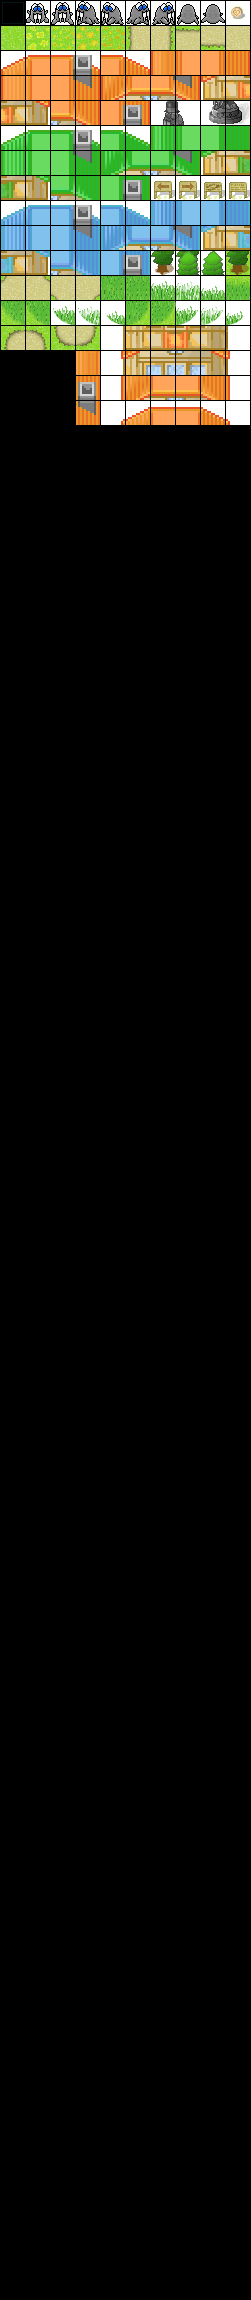
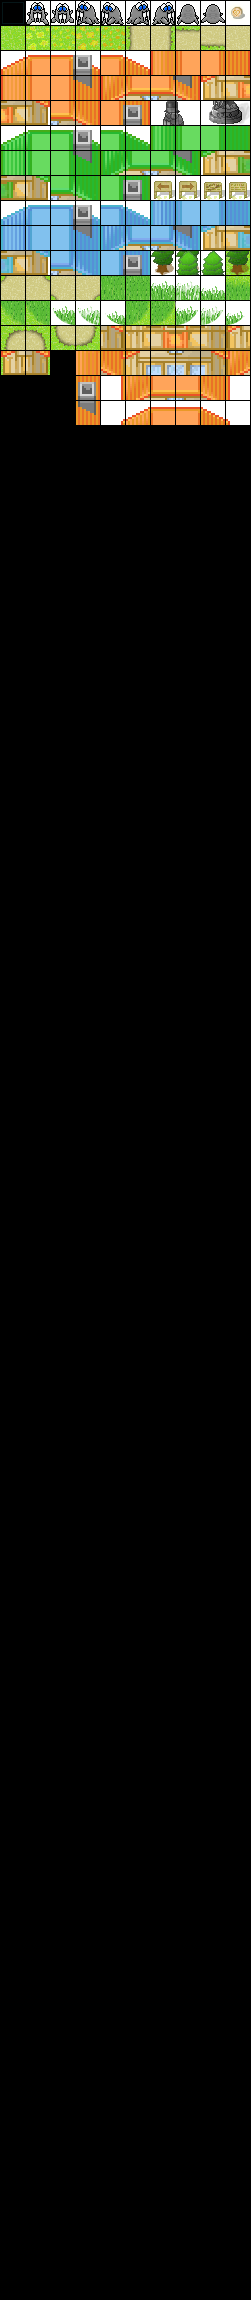
rendering + animations
> Rendering optimized (only render changes)
> Implemented different Walru tiles (directions)
> Added walking animation at 10FPS
> Minor bugfixes

diff --git a/Map.java b/Map.java
@@ -11,14 +11,14 @@ public class Map {
 		Map = new long[_x][_y];
 	}
 	public static int getForegroundID(int _x, int _y) {
-		double _data = Map[_x][_y];
+		double _data = Map[General.getBetween(0, _x, getWidth())][General.getBetween(0, _y, getHeight())];;
 		return (int) ((_data-(_data%901))/901)%901;
 	}
 	public static int getForegroundID(double _data) {
 		return (int) ((_data-(_data%901))/901)%901;
 	}
 	public static int getBackgroundID(int _x, int _y) {
-		double _data = Map[_x][_y];
+		double _data = Map[General.getBetween(0, _x, getWidth())][General.getBetween(0, _y, getHeight())];;
 		return (int) _data%901;
 	}
 	public static int getBackgroundID(double _data) {
@@ -48,27 +48,26 @@ public class Map {
 		return (long) _foreground*901+_background;
 
 	}
-	
 	public static void loadCity1() {
-		for(int _i=0;_i<100;_i++) {Map[_i][15] = new long[] { 901*107+10, 901*107+10, 901*107+10, 901*107+10, 901*107+10, 901*107+10, 901*107+10, 901*107+10, 901*107+10, 901*107+10,	901*107+10, 901*107+10, 901*107+10, 901*106+10, 10, 10, 901*106+10, 901*106+10, 901*107+10, 901*106+10,		10, 10, 10, 15, 16, 901*107+10, 0, 901*20+12, 901*21+10, 901*22+10,						901*23+10, 901*34+10, 901*35+10, 901*42+10, 901*144+43, 145, 146, 147, 148, 901*149+34,					901*35+10, 901*42+10, 901*43+10, 0, 0, 0, 0, 0, 0, 0, 0, 0, 0, 0, 0, 0, 0, 0, 0, 0, 0, 0, 0, 0, 0, 0, 0, 0, 0, 0, 0, 0, 0, 0, 0, 0, 0, 0, 0, 0, 0, 0, 0, 0, 0, 0, 0, 0, 0, 0, 0, 0, 0, 0, 0, 0, 0, 0, 0,  0}[_i];}
-		for(int _i=0;_i<100;_i++) {Map[_i][16] = new long[] { 901*107+10, 901*107+10, 901*107+10, 901*107+10, 901*107+10, 901*107+10, 901*107+10, 901*107+10, 901*107+10, 901*107+10,	901*107+10, 901*107+10, 901*106+10, 901*108+10, 901*108+10, 10, 10, 10, 901*106+10, 10,						10, 901*108+10, 10, 15, 16, 901*107+10, 0, 26, 27, 32,									33, 901*38+10, 39, 40, 901*134+41, 135, 136, 137, 138, 901*139+38,										39, 40, 901*41+10, 0, 0, 0, 0, 0, 0, 0, 0, 0, 0, 0, 0, 0, 0, 0, 0, 0, 0, 0, 0, 0, 0, 0, 0, 0, 0, 0, 0, 0, 0, 0, 0, 0, 0, 0, 0, 0, 0, 0, 0, 0, 0, 0, 0, 0, 0, 0, 0, 0, 0, 0, 0, 0, 0, 0, 0,  0}[_i];}
-		for(int _i=0;_i<100;_i++) {Map[_i][17] = new long[] { 901*107+10, 901*107+10, 901*107+10, 901*107+10, 901*107+10, 901*107+10, 901*107+10, 901*107+10, 901*107+10, 901*107+10,	901*107+10, 901*107+10, 901*108+10, 901*107+10, 901*106+10, 10, 10, 10, 10, 10,								901*108+10, 901*107+10, 10, 15, 16, 901*107+10, 0, 26, 27, 28,							29, 0, 15, 111, 17, 17, 110, 111, 17, 17,																110, 16, 0, 0, 0, 0, 0, 0, 0, 0, 0, 0, 0, 0, 0, 0, 0, 0, 0, 0, 0, 0, 0, 0, 0, 0, 0, 0, 0, 0, 0, 0, 0, 0, 0, 0, 0, 0, 0, 0, 0, 0, 0, 0, 0, 0, 0, 0, 0, 0, 0, 0, 0, 0, 0, 0, 0, 0, 0,  0}[_i];}
-		for(int _i=0;_i<100;_i++) {Map[_i][18] = new long[] { 901*107+10, 901*107+10, 901*107+10, 901*107+10, 901*107+10, 901*106+10, 901*107+10, 901*107+10, 901*107+10, 901*107+10,	901*106+10, 901*107+10, 901*107+10, 901*20+109, 901*21+10, 901*22+10, 901*23+10, 10, 901*20+12, 901*21+10,	901*22+109, 901*23+109, 10, 15, 16, 901*107+10, 0, 901*34+11, 35, 42,					901*43+10, 0, 132, 18, 18, 18, 112, 113, 18, 18,														18, 133, 0, 0, 0, 0, 0, 0, 0, 0, 0, 0, 0, 0, 0, 0, 0, 0, 0, 0, 0, 0, 0, 0, 0, 0, 0, 0, 0, 0, 0, 0, 0, 0, 0, 0, 0, 0, 0, 0, 0, 0, 0, 0, 0, 0, 0, 0, 0, 0, 0, 0, 0, 0, 0, 0, 0, 0, 0,  0}[_i];}
-		for(int _i=0;_i<100;_i++) {Map[_i][19] = new long[] { 901*107+10, 901*107+10, 901*107+10, 901*107+10, 901*107+10, 901*108+10, 901*107+10, 901*107+10, 901*107+10, 901*106+10,	10, 901*106+10, 901*107+10, 26, 27, 32, 33, 10, 26, 27,														32, 33, 10, 15, 16, 901*107+10, 0, 901*38+11, 39, 40,									901*41+10, 0, 0, 10, 10, 130, 110, 111, 131, 10,														10, 0, 0, 0, 0, 0, 0, 0, 0, 0, 0, 0, 0, 0, 0, 0, 0, 0, 0, 0, 0, 0, 0, 0, 0, 0, 0, 0, 0, 0, 0, 0, 0, 0, 0, 0, 0, 0, 0, 0, 0, 0, 0, 0, 0, 0, 0, 0, 0, 0, 0, 0, 0, 0, 0, 0, 0, 0, 0,  0}[_i];}
-		for(int _i=0;_i<100;_i++) {Map[_i][20] = new long[] { 901*107+10, 901*107+10, 901*107+10, 901*107+10, 901*107+10, 901*107+10, 901*107+10, 901*107+10, 901*107+10, 14,			10, 10, 901*106+10, 26, 27, 28, 29, 10, 26, 27,																28, 29, 10, 15, 16, 901*107+10, 0, 0, 15, 16,											0, 0, 0, 130, 17, 110, 19, 19, 111, 17,																	131, 0, 0, 0, 0, 0, 0, 0, 0, 0, 0, 0, 0, 0, 0, 0, 0, 0, 0, 0, 0, 0, 0, 0, 0, 0, 0, 0, 0, 0, 0, 0, 0, 0, 0, 0, 0, 0, 0, 0, 0, 0, 0, 0, 0, 0, 0, 0, 0, 0, 0, 0, 0, 0, 0, 0, 0, 0, 0,  0}[_i];}
-		for(int _i=0;_i<100;_i++) {Map[_i][21] = new long[] { 901*107+10, 901*107+10, 901*107+10, 901*107+10, 901*107+10, 901*107+10, 901*107+10, 901*106+10, 901*106+10, 10,			901*108+10, 901*108+10, 901*108+10, 901*34+11, 35, 42, 901*43+10, 10, 901*34+11, 35,						42, 901*43+10, 10, 15, 16, 901*107+10, 0, 0, 15, 111,									17, 17, 17, 110, 19, 19, 901*46+19, 901*47+19, 19, 19,																111, 0, 0, 0, 0, 0, 0, 0, 0, 0, 0, 0, 0, 0, 0, 0, 0, 0, 0, 0, 0, 0, 0, 0, 0, 0, 0, 0, 0, 0, 0, 0, 0, 0, 0, 0, 0, 0, 0, 0, 0, 0, 0, 0, 0, 0, 0, 0, 0, 0, 0, 0, 0, 0, 0, 0, 0, 0, 0,  0}[_i];}
-		for(int _i=0;_i<100;_i++) {Map[_i][22] = new long[] { 901*107+10, 901*107+10, 901*107+10, 901*107+10, 901*107+10, 901*107+10, 901*106+10, 10, 10, 901*108+10,					901*107+10, 901*107+10, 901*106+10, 901*38+11, 39, 40, 901*41+10, 10, 901*38+11, 39,						40, 901*41+10, 10, 15, 16, 901*107+10, 0, 0, 132, 18,									18, 18, 18, 112, 19, 19, 901*48+19, 901*49+19, 19, 19,																113, 0, 0, 0, 0, 0, 0, 0, 0, 0, 0, 0, 0, 0, 0, 0, 0, 0, 0, 0, 0, 0, 0, 0, 0, 0, 0, 0, 0, 0, 0, 0, 0, 0, 0, 0, 0, 0, 0, 0, 0, 0, 0, 0, 0, 0, 0, 0, 0, 0, 0, 0, 0, 0, 0, 0, 0, 0, 0,  0}[_i];}
-		for(int _i=0;_i<100;_i++) {Map[_i][23] = new long[] { 901*107+10, 901*107+10, 901*107+10, 901*107+10, 901*107+10, 901*106+10, 10, 10, 10, 901*107+10,							901*107+10, 901*106+10, 10, 10, 15, 111, 17, 17, 17, 110,													111, 17, 17, 110, 16, 901*107+10, 0, 0, 0, 0,											0, 0, 0, 132, 18, 18, 112, 113, 18, 18,																	133, 0, 0, 0, 0, 0, 0, 0, 0, 0, 0, 0, 0, 0, 0, 0, 0, 0, 0, 0, 0, 0, 0, 0, 0, 0, 0, 0, 0, 0, 0, 0, 0, 0, 0, 0, 0, 0, 0, 0, 0, 0, 0, 0, 0, 0, 0, 0, 0, 0, 0, 0, 0, 0, 0, 0, 0, 0, 0,  0}[_i];}
-		for(int _i=0;_i<100;_i++) {Map[_i][24] = new long[] { 901*107+10, 901*107+10, 901*107+10, 901*107+10, 901*107+10, 901*108+14, 901*108+10, 10, 10, 901*106+10,					106*901+12, 14, 14, 10, 132, 18, 18, 18, 18, 18,															18, 18, 18, 112, 16, 901*107+10, 901*108+10, 901*108+10, 901*108+10, 901*108+10,		901*108+10, 901*108+10, 901*108+10, 901*108+10, 901*108+10, 901*108+10, 15, 16, 901*108+10, 901*108+10,	0, 0, 0, 0, 0, 0, 0, 0, 0, 0, 0, 0, 0, 0, 0, 0, 0, 0, 0, 0, 0, 0, 0, 0, 0, 0, 0, 0, 0, 0, 0, 0, 0, 0, 0, 0, 0, 0, 0, 0, 0, 0, 0, 0, 0, 0, 0, 0, 0, 0, 0, 0, 0, 0, 0, 0, 0, 0, 0,  0}[_i];}
-		for(int _i=0;_i<100;_i++) {Map[_i][25] = new long[] { 901*107+10, 901*107+10, 901*107+10, 901*107+10, 901*107+10, 901*107+10, 901*107+10, 901*108+10, 10, 10,					12, 14, 10, 901*108+10, 10, 10, 10, 10, 14, 10,																901*108+10, 10, 10, 15, 16, 901*106+10, 901*106+10, 901*106+10, 901*106+10, 901*107+10,	901*106+10, 901*106+10, 901*106+10, 901*107+10, 901*106+10, 901*106+10, 15, 16, 901*106+10, 901*106+10,	0, 0, 0, 0, 0, 0, 0, 0, 0, 0, 0, 0, 0, 0, 0, 0, 0, 0, 0, 0, 0, 0, 0, 0, 0, 0, 0, 0, 0, 0, 0, 0, 0, 0, 0, 0, 0, 0, 0, 0, 0, 0, 0, 0, 0, 0, 0, 0, 0, 0, 0, 0, 0, 0, 0, 0, 0, 0, 0,  0}[_i];}
-		for(int _i=0;_i<100;_i++) {Map[_i][26] = new long[] { 901*107+10, 901*107+10, 901*107+10, 106*901+10, 901*107+10, 901*20+109, 901*21+109, 901*24+109, 901*25+10, 10, 			12, 901*20+12, 901*21+10, 901*22+109, 901*23+10, 10, 10, 10, 901*20+12, 901*21+10,							901*22+109, 901*23+10, 10, 15, 16, 12, 901*108+12, 901*108+12, 901*108+12, 901*106+10,	12, 901*20+12, 901*21+10, 901*22+109, 901*23+10, 10, 15, 16, 10, 901*20+10,								901*21+10, 0, 0, 0, 0, 0, 0, 0, 0, 0, 0, 0, 0, 0, 0, 0, 0, 0, 0, 0, 0, 0, 0, 0, 0, 0, 0, 0, 0, 0, 0, 0, 0, 0, 0, 0, 0, 0, 0, 0, 0, 0, 0, 0, 0, 0, 0, 0, 0, 0, 0, 0, 0, 0, 0, 0, 0, 0, 0,  0}[_i];}
-		for(int _i=0;_i<100;_i++) {Map[_i][27] = new long[] { 901*107+10, 901*107+10, 901*107+10, 10, 106*901+10, 26, 27, 28, 29, 13,													901*108+12, 26, 27, 32, 33, 10, 10, 10, 26, 27,																32, 33, 10, 15, 16, 901*108+12, 901*107+10, 901*107+10, 901*107+10, 901*108+12,			901*108+12, 26, 27, 32, 33, 10, 15, 16, 10, 26,															27, 0, 0, 0, 0, 0, 0, 0, 0, 0, 0, 0, 0, 0, 0, 0, 0, 0, 0, 0, 0, 0, 0, 0, 0, 0, 0, 0, 0, 0, 0, 0, 0, 0, 0, 0, 0, 0, 0, 0, 0, 0, 0, 0, 0, 0, 0, 0, 0, 0, 0, 0, 0, 0, 0, 0, 0, 0, 0,  0}[_i];}
-		for(int _i=0;_i<100;_i++) {Map[_i][28] = new long[] { 901*107+10, 901*107+10, 901*107+10, 901*108+14, 13, 26, 27, 44, 45, 10,													901*107+10, 26, 27, 28, 29, 10, 14, 10, 26, 27,																28, 29, 14, 15, 16, 901*107+10, 901*106+13, 901*106+13, 901*106+13, 901*107+10, 		901*107+10, 26, 27, 28, 29, 10, 15, 16, 10, 26,															27, 0, 0, 0, 0, 0, 0, 0, 0, 0, 0, 0, 0, 0, 0, 0, 0, 0, 0, 0, 0, 0, 0, 0, 0, 0, 0, 0, 0, 0, 0, 0, 0, 0, 0, 0, 0, 0, 0, 0, 0, 0, 0, 0, 0, 0, 0, 0, 0, 0, 0, 0, 0, 0, 0, 0, 0, 0, 0,  0}[_i];}
-		for(int _i=0;_i<100;_i++) {Map[_i][29] = new long[] { 901*107+10, 901*107+10, 106*901+10, 901*107+10, 13, 901*34+11, 35, 36, 901*37+10, 10,										901*106+10, 901*34+11, 35, 42, 901*43+10, 901*108+10, 12, 12, 901*34+11, 35,								42, 901*43+10, 12, 15, 16, 901*106+13, 901*79+13, 901*78+11, 901*78+11, 901*106+13,		901*106+10, 901*34+11, 35, 42, 901*43+10, 901*108+10, 15, 16, 10, 901*34+11,							35, 0, 0, 0, 0, 0, 0, 0, 0, 0, 0, 0, 0, 0, 0, 0, 0, 0, 0, 0, 0, 0, 0, 0, 0, 0, 0, 0, 0, 0, 0, 0, 0, 0, 0, 0, 0, 0, 0, 0, 0, 0, 0, 0, 0, 0, 0, 0, 0, 0, 0, 0, 0, 0, 0, 0, 0, 0, 0,  0}[_i];}
-		for(int _i=0;_i<100;_i++) {Map[_i][30] = new long[] { 106*901+10, 106*901+10, 901*79+13, 106*901+13, 12, 901*38+11, 39, 40, 901*41+10, 11,										10, 901*38+11, 39, 40, 901*41+10, 901*106+10, 10, 12, 901*38+114, 39,										40, 901*41+10, 10, 15, 16, 12, 13, 11, 13, 12,											10, 901*38+11, 39, 40, 901*41+10, 901*106+10, 15, 16, 10, 901*38+114,									39, 0, 0, 0, 0, 0, 0, 0, 0, 0, 0, 0, 0, 0, 0, 0, 0, 0, 0, 0, 0, 0, 0, 0, 0, 0, 0, 0, 0, 0, 0, 0, 0, 0, 0, 0, 0, 0, 0, 0, 0, 0, 0, 0, 0, 0, 0, 0, 0, 0, 0, 0, 0, 0, 0, 0, 0, 0, 0,  0}[_i];}
-		for(int _i=0;_i<100;_i++) {Map[_i][31] = new long[] { 17, 17, 17, 17, 17, 17, 110, 111, 17, 17,																					901*9+17, 17, 110, 111, 17, 17, 17, 17, 17, 110,															111, 17, 17, 110, 111, 17, 17, 17, 17, 17, 												17, 17, 110, 111, 17, 17, 110, 111, 17, 17,																0, 0, 0, 0, 0, 0, 0, 0, 0, 0, 0, 0, 0, 0, 0, 0, 0, 0, 0, 0, 0, 0, 0, 0, 0, 0, 0, 0, 0, 0, 0, 0, 0, 0, 0, 0, 0, 0, 0, 0, 0, 0, 0, 0, 0, 0, 0, 0, 0, 0, 0, 0, 0, 0, 0, 0, 0, 0, 0,  0}[_i];}
-		for(int _i=0;_i<100;_i++) {Map[_i][32] = new long[] { 901*108+18, 901*108+18, 901*108+18, 18, 18, 901*108+18, 18, 18, 112, 113,													901*108+18, 901*108+18, 901*108+18, 18, 18, 901*108+18, 18, 18, 112, 113,									18, 18, 18, 18, 18, 18, 18, 18, 18, 18,													901*108+18, 901*108+18, 901*108+18, 18, 18, 901*108+18, 18, 18, 112, 113,								0, 0, 0, 0, 0, 0, 0, 0, 0, 0, 0, 0, 0, 0, 0, 0, 0, 0, 0, 0, 0, 0, 0, 0, 0, 0, 0, 0, 0, 0, 0, 0, 0, 0, 0, 0, 0, 0, 0, 0, 0, 0, 0, 0, 0, 0, 0, 0, 0, 0, 0, 0, 0, 0, 0, 0, 0, 0, 0,  0}[_i];}
-		for(int _i=0;_i<100;_i++) {Map[_i][33] = new long[] { 901*107+10, 901*107+10, 901*107+10, 901*108+10, 901*108+10, 901*107+10, 901*108+12, 901*108+13, 15, 16,					901*107+10, 901*107+10, 901*107+10, 901*108+10, 901*108+10, 901*107+10, 901*108+10, 901*108+10, 10, 10,		10, 10, 10, 10, 10, 0, 0, 0, 0, 0,														901*107+10, 901*107+10, 901*107+10, 901*108+10, 901*108+10, 901*107+10, 901*108+10, 901*108+10, 10, 10,	0, 0, 0, 0, 0, 0, 0, 0, 0, 0, 0, 0, 0, 0, 0, 0, 0, 0, 0, 0, 0, 0, 0, 0, 0, 0, 0, 0, 0, 0, 0, 0, 0, 0, 0, 0, 0, 0, 0, 0, 0, 0, 0, 0, 0, 0, 0, 0, 0, 0, 0, 0, 0, 0, 0, 0, 0, 0, 0,  0}[_i];}
+		for(int _i=0;_i<100;_i++) {Map[_i][15] = new long[] { 901*107+10, 901*107+10, 901*107+10, 901*107+10, 901*107+10, 901*107+10, 901*107+10, 901*107+10, 901*107+10, 901*107+10,	901*107+10, 901*107+10, 901*107+10, 109, 10, 10, 109, 109, 901*107+10, 109,									10, 10, 10, 15, 16, 901*107+10, 10, 901*20+12, 901*21+10, 901*22+10,					901*23+10, 901*34+10, 901*35+10, 901*42+10, 144, 145, 146, 147, 148, 149,									901*35+10, 901*42+10, 901*43+10, 0, 0, 0, 0, 0, 0, 0, 0, 0, 0, 0, 0, 0, 0, 0, 0, 0, 0, 0, 0, 0, 0, 0, 0, 0, 0, 0, 0, 0, 0, 0, 0, 0, 0, 0, 0, 0, 0, 0, 0, 0, 0, 0, 0, 0, 0, 0, 0, 0, 0, 0, 0, 0, 0, 0, 0,  0}[_i];}
+		for(int _i=0;_i<100;_i++) {Map[_i][16] = new long[] { 901*107+10, 901*107+10, 901*107+10, 901*107+10, 901*107+10, 901*107+10, 901*107+10, 901*107+10, 901*107+10, 901*107+10,	901*107+10, 901*107+10, 109, 901*108+10, 901*108+10, 10, 10, 10, 109, 10,									10, 901*108+10, 10, 15, 16, 901*107+10, 10, 26, 27, 32,									33, 140, 39, 40, 134, 135, 136, 137, 138, 139,																39, 40, 141, 0, 0, 0, 0, 0, 0, 0, 0, 0, 0, 0, 0, 0, 0, 0, 0, 0, 0, 0, 0, 0, 0, 0, 0, 0, 0, 0, 0, 0, 0, 0, 0, 0, 0, 0, 0, 0, 0, 0, 0, 0, 0, 0, 0, 0, 0, 0, 0, 0, 0, 0, 0, 0, 0, 0, 0,  0}[_i];}
+		for(int _i=0;_i<100;_i++) {Map[_i][17] = new long[] { 901*107+10, 901*107+10, 901*107+10, 901*107+10, 901*107+10, 901*107+10, 901*107+10, 901*107+10, 901*107+10, 901*107+10,	901*107+10, 901*107+10, 901*108+10, 901*107+10, 109, 10, 10, 10, 10, 10,									901*108+10, 901*107+10, 10, 15, 16, 901*107+10, 10, 26, 27, 28,							29, 0, 15, 111, 17, 17, 110, 111, 17, 17,																	110, 16, 0, 0, 0, 0, 0, 0, 0, 0, 0, 0, 0, 0, 0, 0, 0, 0, 0, 0, 0, 0, 0, 0, 0, 0, 0, 0, 0, 0, 0, 0, 0, 0, 0, 0, 0, 0, 0, 0, 0, 0, 0, 0, 0, 0, 0, 0, 0, 0, 0, 0, 0, 0, 0, 0, 0, 0, 0,  0}[_i];}
+		for(int _i=0;_i<100;_i++) {Map[_i][18] = new long[] { 901*107+10, 901*107+10, 901*107+10, 901*107+10, 901*107+10, 109, 901*107+10, 901*107+10, 901*107+10, 901*107+10,			109, 901*107+10, 901*107+10, 901*20+109, 901*21+10, 901*22+10, 901*23+10, 10, 901*20+12, 901*21+10,			901*22+109, 901*23+109, 10, 15, 16, 901*107+10, 10, 901*34+11, 35, 42,					901*43+10, 0, 132, 18, 18, 18, 112, 113, 18, 18,															18, 133, 0, 0, 0, 0, 0, 0, 0, 0, 0, 0, 0, 0, 0, 0, 0, 0, 0, 0, 0, 0, 0, 0, 0, 0, 0, 0, 0, 0, 0, 0, 0, 0, 0, 0, 0, 0, 0, 0, 0, 0, 0, 0, 0, 0, 0, 0, 0, 0, 0, 0, 0, 0, 0, 0, 0, 0, 0,  0}[_i];}
+		for(int _i=0;_i<100;_i++) {Map[_i][19] = new long[] { 901*107+10, 901*107+10, 901*107+10, 901*107+10, 901*107+10, 901*108+10, 901*107+10, 901*107+10, 901*107+10, 109,			10, 109, 901*107+10, 26, 27, 32, 33, 10, 26, 27,															32, 33, 10, 15, 16, 901*107+10, 10, 140, 39, 40,										141, 0, 0, 10, 10, 130, 110, 111, 131, 10,																	10, 0, 0, 0, 0, 0, 0, 0, 0, 0, 0, 0, 0, 0, 0, 0, 0, 0, 0, 0, 0, 0, 0, 0, 0, 0, 0, 0, 0, 0, 0, 0, 0, 0, 0, 0, 0, 0, 0, 0, 0, 0, 0, 0, 0, 0, 0, 0, 0, 0, 0, 0, 0, 0, 0, 0, 0, 0, 0,  0}[_i];}
+		for(int _i=0;_i<100;_i++) {Map[_i][20] = new long[] { 901*107+10, 901*107+10, 901*107+10, 901*107+10, 901*107+10, 901*107+10, 901*107+10, 901*107+10, 901*107+10, 14,			10, 10, 109, 26, 27, 28, 29, 10, 26, 27,																	28, 29, 10, 15, 16, 901*107+10, 10, 10, 15, 16,											0, 0, 0, 130, 17, 110, 19, 19, 111, 17,																		131, 0, 0, 0, 0, 0, 0, 0, 0, 0, 0, 0, 0, 0, 0, 0, 0, 0, 0, 0, 0, 0, 0, 0, 0, 0, 0, 0, 0, 0, 0, 0, 0, 0, 0, 0, 0, 0, 0, 0, 0, 0, 0, 0, 0, 0, 0, 0, 0, 0, 0, 0, 0, 0, 0, 0, 0, 0, 0,  0}[_i];}
+		for(int _i=0;_i<100;_i++) {Map[_i][21] = new long[] { 901*107+10, 901*107+10, 901*107+10, 901*107+10, 901*107+10, 901*107+10, 901*107+10, 109, 109, 10,							901*108+10, 901*108+10, 901*108+10, 901*34+11, 35, 42, 901*43+10, 10, 901*34+11, 35,						42, 901*43+10, 10, 15, 16, 901*107+10, 10, 10, 15, 111,									17, 17, 17, 110, 19, 19, 901*46+19, 901*47+19, 19, 19,														111, 0, 0, 0, 0, 0, 0, 0, 0, 0, 0, 0, 0, 0, 0, 0, 0, 0, 0, 0, 0, 0, 0, 0, 0, 0, 0, 0, 0, 0, 0, 0, 0, 0, 0, 0, 0, 0, 0, 0, 0, 0, 0, 0, 0, 0, 0, 0, 0, 0, 0, 0, 0, 0, 0, 0, 0, 0, 0,  0}[_i];}
+		for(int _i=0;_i<100;_i++) {Map[_i][22] = new long[] { 901*107+10, 901*107+10, 901*107+10, 901*107+10, 901*107+10, 901*107+10, 109, 10, 10, 901*108+10,							901*107+10, 901*107+10, 109, 140, 39, 40, 141, 10, 140, 39,													40, 141, 10, 15, 16, 901*107+10, 10, 10, 132, 18,										18, 18, 18, 112, 19, 19, 901*48+19, 901*49+19, 19, 19,														113, 0, 0, 0, 0, 0, 0, 0, 0, 0, 0, 0, 0, 0, 0, 0, 0, 0, 0, 0, 0, 0, 0, 0, 0, 0, 0, 0, 0, 0, 0, 0, 0, 0, 0, 0, 0, 0, 0, 0, 0, 0, 0, 0, 0, 0, 0, 0, 0, 0, 0, 0, 0, 0, 0, 0, 0, 0, 0,  0}[_i];}
+		for(int _i=0;_i<100;_i++) {Map[_i][23] = new long[] { 901*107+10, 901*107+10, 901*107+10, 901*107+10, 901*107+10, 109, 10, 10, 10, 901*107+10,									901*107+10, 109, 10, 10, 15, 111, 17, 17, 17, 110,															111, 17, 17, 110, 16, 901*107+10, 10, 10, 10, 10,										0, 0, 0, 132, 18, 18, 112, 113, 18, 18,																		133, 0, 0, 0, 0, 0, 0, 0, 0, 0, 0, 0, 0, 0, 0, 0, 0, 0, 0, 0, 0, 0, 0, 0, 0, 0, 0, 0, 0, 0, 0, 0, 0, 0, 0, 0, 0, 0, 0, 0, 0, 0, 0, 0, 0, 0, 0, 0, 0, 0, 0, 0, 0, 0, 0, 0, 0, 0, 0,  0}[_i];}
+		for(int _i=0;_i<100;_i++) {Map[_i][24] = new long[] { 901*107+10, 901*107+10, 901*107+10, 901*107+10, 901*107+10, 901*108+14, 901*108+10, 10, 10, 109,							106*901+12, 14, 14, 10, 132, 18, 18, 18, 18, 18,															18, 18, 18, 112, 16, 901*107+10, 901*108+10, 901*108+10, 901*108+10, 901*108+10,		901*108+10, 901*108+10, 901*108+10, 901*108+10, 901*108+10, 901*108+10, 15, 16, 901*108+10, 901*108+10,		0, 0, 0, 0, 0, 0, 0, 0, 0, 0, 0, 0, 0, 0, 0, 0, 0, 0, 0, 0, 0, 0, 0, 0, 0, 0, 0, 0, 0, 0, 0, 0, 0, 0, 0, 0, 0, 0, 0, 0, 0, 0, 0, 0, 0, 0, 0, 0, 0, 0, 0, 0, 0, 0, 0, 0, 0, 0, 0,  0}[_i];}
+		for(int _i=0;_i<100;_i++) {Map[_i][25] = new long[] { 901*107+10, 901*107+10, 901*107+10, 901*107+10, 901*107+10, 901*107+10, 901*107+10, 901*108+10, 10, 10,					12, 14, 10, 901*108+10, 10, 10, 10, 10, 14, 10,																901*108+10, 10, 10, 15, 16, 109, 109, 109, 109, 901*107+10,								109, 109, 109, 901*107+10, 109, 109, 15, 16, 109, 109,														0, 0, 0, 0, 0, 0, 0, 0, 0, 0, 0, 0, 0, 0, 0, 0, 0, 0, 0, 0, 0, 0, 0, 0, 0, 0, 0, 0, 0, 0, 0, 0, 0, 0, 0, 0, 0, 0, 0, 0, 0, 0, 0, 0, 0, 0, 0, 0, 0, 0, 0, 0, 0, 0, 0, 0, 0, 0, 0,  0}[_i];}
+		for(int _i=0;_i<100;_i++) {Map[_i][26] = new long[] { 901*107+10, 901*107+10, 901*107+10, 106*901+10, 901*107+10, 901*20+109, 901*21+109, 901*24+109, 901*25+10, 10, 			12, 901*20+12, 901*21+10, 901*22+109, 901*23+10, 10, 10, 10, 901*20+12, 901*21+10,							901*22+109, 901*23+10, 10, 15, 16, 12, 901*108+12, 901*108+12, 901*108+12, 109,			12, 901*20+12, 901*21+10, 901*22+109, 901*23+10, 10, 15, 16, 10, 901*20+10,									901*21+10, 901*22+109, 901*23+10, 0, 0, 0, 0, 0, 0, 0, 0, 0, 0, 0, 0, 0, 0, 0, 0, 0, 0, 0, 0, 0, 0, 0, 0, 0, 0, 0, 0, 0, 0, 0, 0, 0, 0, 0, 0, 0, 0, 0, 0, 0, 0, 0, 0, 0, 0, 0, 0, 0, 0, 0, 0, 0, 0, 0, 0,  0}[_i];}
+		for(int _i=0;_i<100;_i++) {Map[_i][27] = new long[] { 901*107+10, 901*107+10, 901*107+10, 10, 106*901+10, 26, 27, 28, 29, 13,													901*108+12, 26, 27, 32, 33, 10, 10, 10, 26, 27,																32, 33, 10, 15, 16, 901*108+12, 901*107+10, 901*107+10, 901*107+10, 901*108+12,			901*108+12, 26, 27, 32, 33, 10, 15, 16, 10, 26,																27, 32, 33, 0, 0, 0, 0, 0, 0, 0, 0, 0, 0, 0, 0, 0, 0, 0, 0, 0, 0, 0, 0, 0, 0, 0, 0, 0, 0, 0, 0, 0, 0, 0, 0, 0, 0, 0, 0, 0, 0, 0, 0, 0, 0, 0, 0, 0, 0, 0, 0, 0, 0, 0, 0, 0, 0, 0, 0,  0}[_i];}
+		for(int _i=0;_i<100;_i++) {Map[_i][28] = new long[] { 901*107+10, 901*107+10, 901*107+10, 901*108+14, 13, 26, 27, 44, 45, 10,													901*107+10, 26, 27, 28, 29, 10, 14, 10, 26, 27,																28, 29, 14, 15, 16, 901*107+10, 109, 109, 109, 901*107+10, 								901*107+10, 26, 27, 28, 29, 10, 15, 16, 10, 26,																27, 28, 29, 0, 0, 0, 0, 0, 0, 0, 0, 0, 0, 0, 0, 0, 0, 0, 0, 0, 0, 0, 0, 0, 0, 0, 0, 0, 0, 0, 0, 0, 0, 0, 0, 0, 0, 0, 0, 0, 0, 0, 0, 0, 0, 0, 0, 0, 0, 0, 0, 0, 0, 0, 0, 0, 0, 0, 0,  0}[_i];}
+		for(int _i=0;_i<100;_i++) {Map[_i][29] = new long[] { 901*107+10, 901*107+10, 106*901+10, 901*107+10, 13, 901*34+11, 35, 36, 901*37+10, 10,										109, 901*34+11, 35, 42, 901*43+10, 901*108+10, 12, 12, 901*34+11, 35,										42, 901*43+10, 12, 15, 16, 109, 901*79+13, 901*78+11, 901*78+11, 109,					109, 901*34+11, 35, 42, 901*43+10, 901*108+10, 15, 16, 10, 901*34+11,										35, 42, 901*43+10, 0, 0, 0, 0, 0, 0, 0, 0, 0, 0, 0, 0, 0, 0, 0, 0, 0, 0, 0, 0, 0, 0, 0, 0, 0, 0, 0, 0, 0, 0, 0, 0, 0, 0, 0, 0, 0, 0, 0, 0, 0, 0, 0, 0, 0, 0, 0, 0, 0, 0, 0, 0, 0, 0, 0, 0,  0}[_i];}
+		for(int _i=0;_i<100;_i++) {Map[_i][30] = new long[] { 106*901+10, 106*901+10, 901*79+13, 106*901+13, 12, 140, 39, 40, 141, 11,													10, 140, 39, 40, 141, 109, 10, 12, 140, 39,																	40, 141, 10, 15, 16, 12, 13, 11, 13, 12,												10, 140, 39, 40, 141, 109, 15, 16, 10, 140,																	39, 40, 141, 0, 0, 0, 0, 0, 0, 0, 0, 0, 0, 0, 0, 0, 0, 0, 0, 0, 0, 0, 0, 0, 0, 0, 0, 0, 0, 0, 0, 0, 0, 0, 0, 0, 0, 0, 0, 0, 0, 0, 0, 0, 0, 0, 0, 0, 0, 0, 0, 0, 0, 0, 0, 0, 0, 0, 0,  0}[_i];}
+		for(int _i=0;_i<100;_i++) {Map[_i][31] = new long[] { 17, 17, 17, 17, 17, 17, 110, 111, 17, 17,																					901*9+17, 17, 110, 111, 17, 17, 17, 17, 17, 110,															111, 17, 17, 110, 111, 17, 17, 17, 17, 17, 												17, 17, 110, 111, 17, 17, 110, 111, 17, 17,																	0, 0, 0, 0, 0, 0, 0, 0, 0, 0, 0, 0, 0, 0, 0, 0, 0, 0, 0, 0, 0, 0, 0, 0, 0, 0, 0, 0, 0, 0, 0, 0, 0, 0, 0, 0, 0, 0, 0, 0, 0, 0, 0, 0, 0, 0, 0, 0, 0, 0, 0, 0, 0, 0, 0, 0, 0, 0, 0,  0}[_i];}
+		for(int _i=0;_i<100;_i++) {Map[_i][32] = new long[] { 901*108+18, 901*108+18, 901*108+18, 18, 18, 901*108+18, 18, 18, 112, 113,													901*108+18, 901*108+18, 901*108+18, 18, 18, 901*108+18, 18, 18, 112, 113,									18, 18, 18, 18, 18, 18, 18, 18, 18, 18,													901*108+18, 901*108+18, 901*108+18, 18, 18, 901*108+18, 18, 18, 112, 113,									0, 0, 0, 0, 0, 0, 0, 0, 0, 0, 0, 0, 0, 0, 0, 0, 0, 0, 0, 0, 0, 0, 0, 0, 0, 0, 0, 0, 0, 0, 0, 0, 0, 0, 0, 0, 0, 0, 0, 0, 0, 0, 0, 0, 0, 0, 0, 0, 0, 0, 0, 0, 0, 0, 0, 0, 0, 0, 0,  0}[_i];}
+		for(int _i=0;_i<100;_i++) {Map[_i][33] = new long[] { 901*107+10, 901*107+10, 901*107+10, 901*108+10, 901*108+10, 901*107+10, 901*108+12, 901*108+13, 15, 16,					901*107+10, 901*107+10, 901*107+10, 901*108+10, 901*108+10, 901*107+10, 901*108+10, 901*108+10, 10, 10,		10, 10, 10, 10, 10, 901*108+10, 901*108+10, 901*108+10, 901*108+10, 901*108+10,			901*107+10, 901*107+10, 901*107+10, 901*108+10, 901*108+10, 901*107+10, 901*108+10, 901*108+10, 10, 10,		0, 0, 0, 0, 0, 0, 0, 0, 0, 0, 0, 0, 0, 0, 0, 0, 0, 0, 0, 0, 0, 0, 0, 0, 0, 0, 0, 0, 0, 0, 0, 0, 0, 0, 0, 0, 0, 0, 0, 0, 0, 0, 0, 0, 0, 0, 0, 0, 0, 0, 0, 0, 0, 0, 0, 0, 0, 0, 0,  0}[_i];}
 
 	}
 

diff --git a/Screen.java b/Screen.java
@@ -12,6 +12,7 @@ public class Screen {
 		ScreenHeight = _height;
 		createScreen(_width, _height);
 	}
+	public static int PlayerTile = 6;
 	public static double[][] ScreenMatrix;
 	public static double[][] ScreenMatrixOld;
 	public static int ScreenWidth;
@@ -74,7 +75,7 @@ public class Screen {
 			for(int _x=0;_x<getWidth();_x++) {
 				double data = ScreenMatrix[_x][_y];				// load raw data
 				double dataOld = ScreenMatrixOld[_x][_y];
-				if (data!=dataOld | ForceUpdate == true) {
+				if (data!=dataOld | ForceUpdate == true | Player.isLastPosition(_x, _y) | Player.isLastPosition(_x, _y+1)) {
 					int _background = Map.getBackgroundID(data);	// extract background data
 					TileArea.drawTile(tiles, TileSource.getXPos(_background), TileSource.getYPos(_background), window.blocksize*_x, window.blocksize*_y);						// render background layer
 				}
@@ -86,9 +87,14 @@ public class Screen {
 			for(int _x=0;_x<getWidth();_x++) {
 				double data = ScreenMatrix[_x][_y];				// load raw data
 				double dataOld = ScreenMatrixOld[_x][_y];
-				if (data!=dataOld | ForceUpdate == true) {
+				if (data!=dataOld | ForceUpdate == true | Player.isLastPosition(_x, _y) | Player.isLastPosition(_x, _y+1)) {
 					int _foreground = Map.getForegroundID(data);	// extrace foreground data
 					if(_foreground>0) {TileArea.drawTile(tiles, TileSource.getXPos(_foreground), TileSource.getYPos(_foreground), window.blocksize*_x, window.blocksize*_y);}	// add foreground layer
+				}
+				if (Player.isLastPosition(_x, _y) | Player.isLastPosition(_x, _y+1)) {
+					if(Map.getForegroundID(data)>0) {
+						TileArea.drawTile(tiles, TileSource.getXPos(Map.getForegroundID(data)), TileSource.getYPos(Map.getForegroundID(data)), window.blocksize*_x, window.blocksize*_y);
+					}
 				}
 			}
 		}
@@ -98,14 +104,25 @@ public class Screen {
 		for(int _y=0;_y<getHeight();_y++) {
 			for(int _x=0;_x<getWidth();_x++) {
 				if(General.getMin(Map.getWidth()-getWidth(), General.getMax(0, Player.getXPos()-Math.round(getWidth()/2)))+_x == Player.getXPos() && General.getMin(Map.getHeight()-getHeight(), General.getMax(0, Player.getYPos()-Math.round(getHeight()/2)))+_y == Player.getYPos()) {
-					TileArea.drawTile(tiles, TileSource.getXPos(6), TileSource.getYPos(6), window.blocksize*_x, General.getMax(window.blocksize*_y-6, 0));						// render background layer
+					PlayerTile = Player.getCurrentTile()+Player.TileChangeWhileWalking;
+					TileArea.drawTile(tiles, TileSource.getXPos(PlayerTile), TileSource.getYPos(PlayerTile), window.blocksize*_x, General.getMax(window.blocksize*_y-6, 0));					// render background layer
+					Player.newLastXPos = _x;
+					Player.newLastYPos = _y;
+					int _foreground = Map.getForegroundID(ScreenMatrix[_x][_y]);	// extrace foreground data
+					if(_foreground>0) {TileArea.drawTile(tiles, TileSource.getXPos(_foreground), TileSource.getYPos(_foreground), window.blocksize*_x, window.blocksize*_y);}	// add foreground layer
 				}
 			}
 		}
 		renderForeground(ForceUpdate);
+		Player.lastXPos = Player.newLastXPos;
+		Player.lastYPos = Player.newLastYPos;
 	}
 	public static void UpdateOldData() {
-		ScreenMatrixOld = ScreenMatrix;
+		for(int _x=0;_x<(int)window.width/24;_x++) {
+			for(int _y=0;_y<(int)window.height/24;_y++) {
+				ScreenMatrixOld[_x][_y] = ScreenMatrix[_x][_y];
+			}
+		}
 	}
 	public static void setField(int _x, int _y, double i) {
 		ScreenMatrix[_x][_y] = i;		

diff --git a/Player.java b/Player.java
@@ -4,16 +4,58 @@ public class Player {
 	public static int xPos = 5;
 	public static int yPos = 5;
 	public static String direction = "right";
+	public static int lastXPos = 0;
+	public static int lastYPos = 0;
+	public static int newLastXPos = 0;
+	public static int newLastYPos = 0;
+	public static int TileChangeWhileWalking = 0;
+	public static int StepDuration = 200;			//time for one animated step in MS
 	public static Player createPlayer(int _PictureID, int _xPos, int _yPos) {
 		Player player = new Player();
 		player.PictureID = _PictureID;	// Current Frame used for the animated Walrii. Depends on @MSEC and at walking/standing
 		player.xPos = _xPos;				// x-Position on global map
 		player.yPos = _yPos;				// y-Position on global map
 		player.direction = direction;
+		player.lastXPos = 0;
+		player.lastYPos = 0;
+		player.newLastXPos = 0;
+		player.newLastYPos = 0;
 		return player;
 	}
 	public static int getXPos() {
 		return xPos;
+	}
+	public static void setTileChangeWhileWalking() {
+		if ((System.currentTimeMillis()%StepDuration)>(StepDuration/2)) {
+			Player.TileChangeWhileWalking = 1;
+		} else {
+			Player.TileChangeWhileWalking = 0;
+		}
+	}
+	public static int getCurrentTile() {
+		int[] _dir = getDirectionToINT();
+		int[] tiles = {0, 3, 0, 0, 7, 0, 1, 0, 0, 5};
+		return tiles[4*(_dir[0]+1)+_dir[1]+1];
+	}
+	public static int[] getDirectionToINT() {
+		int[] dirINT = {0, 0};
+		if(direction.equals("up")){
+			dirINT[0] = 0;
+			dirINT[1] = -1;
+		}
+		if(direction.equals("down")){
+			dirINT[0] = 0;
+			dirINT[1] = 1;
+		}
+		if(direction.equals("left")){
+			dirINT[0] = -1;
+			dirINT[1] = 0;
+		}
+		if(direction.equals("right")){
+			dirINT[0] = 1;
+			dirINT[1] = 0;
+		}
+		return dirINT;
 	}
 	public static int getYPos() {
 		return yPos;
@@ -51,6 +93,7 @@ public class Player {
 		return solid;
 	}
 	public static void go(String _dir) {
+		Player.setTileChangeWhileWalking();
 		turn(_dir);
 		if (!checkPath(_dir)) {
 			move(_dir);
@@ -70,6 +113,13 @@ public class Player {
 			case "down":
 				setYPos(General.getMin(General.getMax(getYPos()+1, 0), Map.getHeight()));
 				break;
+		}
+	}
+	public static boolean isLastPosition(int _x, int _y) {
+		if (_x==lastXPos && _y ==lastYPos ) {
+			return true;
+		} else {
+			return false;
 		}
 	}
 }

diff --git a/General.java b/General.java
@@ -4,6 +4,8 @@ import java.sql.Time;
 
 // This class is for whatever stuff I need to put somewhere but don't know where exactly ^^
 public class General {
+	public static long secondOld = 0;
+	public static int fps = 0;
 	public static int getMax(int _a, int _b) {
 		if(_a>_b) {
 			return _a;
@@ -36,10 +38,22 @@ public class General {
 		}
 		return _max;
 	}
+	public static int getBetween(int _min, int _x, int _max) {
+		int _ans = getMax(_min, getMin(_max, _x));
+		return _ans;
+	}
 	public static void sleep(int _i) {
 		try { // wait 10ms to avoid any flicker
 		    Thread.sleep(_i);
-		    //System.currentTimeMillis()
+		    //System.currentTimeMillis();
+		    long millis = System.currentTimeMillis();
+		    if (millis - millis%1000 == secondOld) {
+		    	fps++;
+		    } else {
+		    	System.out.println(fps);				// Will give me the current FPS
+		    	fps = 0;								// 115 heavy load (running around)	(5000 max with no sleep)
+		    }											// 185 idle							(9500 max with no sleep)
+		    secondOld = millis - millis%1000;
 		} catch(InterruptedException ex) {
 		    Thread.currentThread().interrupt();
 		}

diff --git a/window.java b/window.java
@@ -12,8 +12,8 @@ import java.awt.Canvas;
 
 
 public class window {
-	public static int width = 1000;
-	public static int height = 600;
+	public static int width = 576;
+	public static int height = 400;
 	public static int blocksize = 24;
 	public static BufferStrategy buffer;
 	public static void main(String[] args) {
@@ -37,12 +37,12 @@ public class window {
 		Screen.render(true);
 		while (true) {				// MAIN GAME LOOP
 	    	Screen.update();
-	    	Screen.render(true);
+	    	Screen.render(false);
 	    	Screen.UpdateOldData();
-	    	window.repaint();
 	    	Keys.checkInput();
+	    	window.repaint();
 	    	General.sleep(5);
-	    	General.sleep(25);
+	    	General.sleep(55);
 		}
 	}
 	public static void LoadBlocks() {

diff --git a/Keys.java b/Keys.java
@@ -28,6 +28,7 @@ public class Keys implements KeyListener
 
 	public static void checkInput()
 	{
+		Player.TileChangeWhileWalking = 0;
 		if(keyDown[37]==true) {
     		Player.go("left");
 		}
